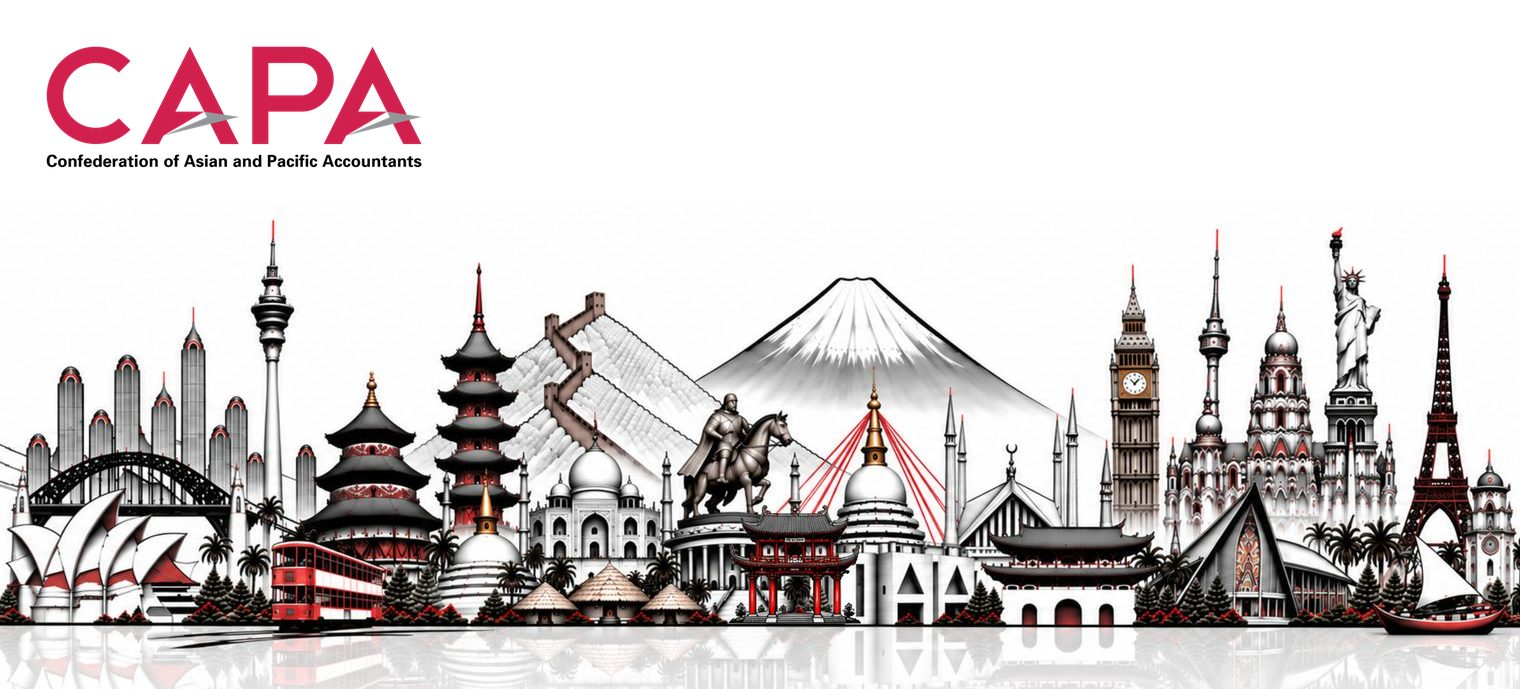
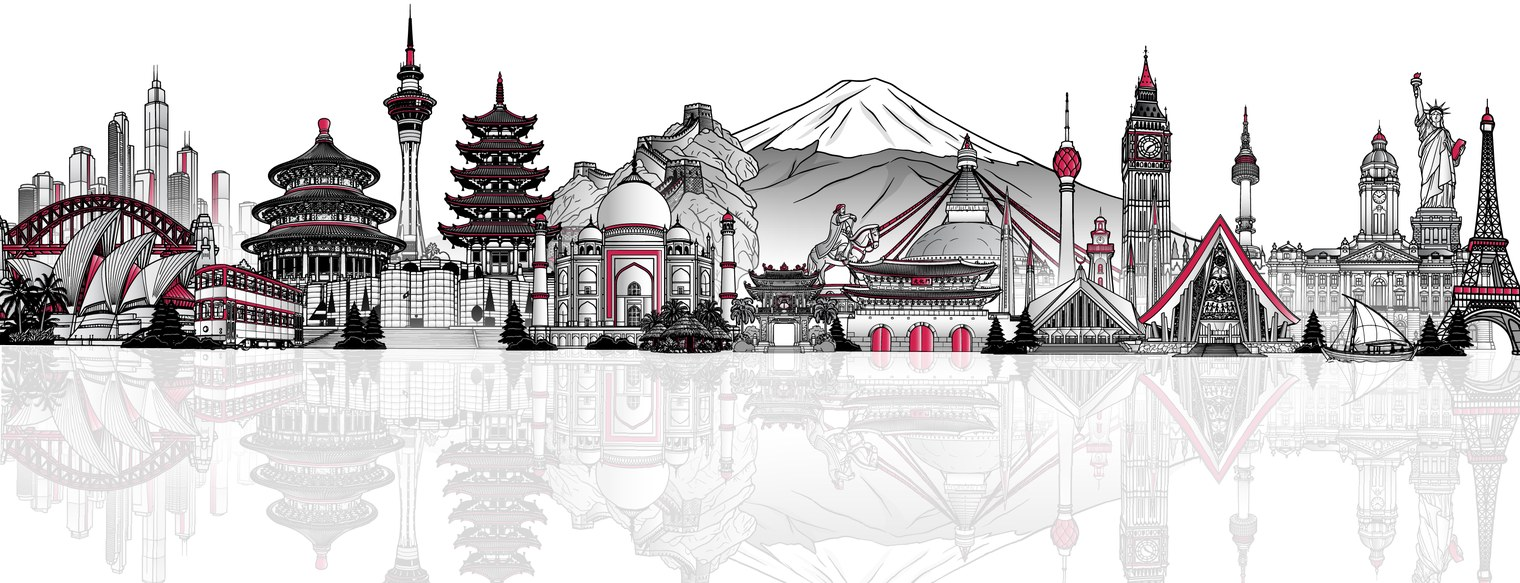
Daily brief and a new recap header
Brief runs every day at 07:47 Malaysia time and covers the past day
(manual runs still take a number of days). Drafts still need approval
before anything is sent. Header picture replaced with the skyline,
empty top trimmed.

Claude-Session: https://claude.ai/code/session_016G8uLg8zaXGriJKmv7ZxJR

diff --git a/pao-news-monitor/pao-news-monitor/README.md b/pao-news-monitor/pao-news-monitor/README.md
@@ -30,16 +30,16 @@ People sign in with their email and a password. Email is only used to confirm a 
 **Adding someone:** Admin tab → type their email, pick a role → **Give access**. Tell them to open the tracker and click **First time here**, choose a password, and click the confirmation email once. Anyone not on the Admin tab's list can't sign up, and has no access even if they somehow had an account.
 **Forgot password / used to sign in with email links:** the **Forgot password** tab emails a link to set one. Signed-in people can change it with the **Password** button.
 
-## Weekly brief (AI)
-Every **Monday at about 7:45am** (Malaysia time) a separate job reads the past week's items (everything except items tagged **Low** or **No relevance**, and hidden first-scan links), and:
+## Daily brief (AI)
+Every day at about **7:45am** (Malaysia time) a separate job reads the past day's items (everything except items tagged **Low** or **No relevance**, and hidden first-scan links), and:
 1. tags each item with themes (AI & digitalisation, Talent, Sustainability, Ethics & standards) and a one-line English summary. These also appear on the news cards.
 2. lays out a draft **recap** in CAPA's newsletter layout: **Highlight 1** and **Highlight 2** (the two most important stories, each with 2-3 sentences the AI writes from the article), **Other key news** (the other High stories; opportunities to comment and leadership changes count as High) and **Also worth knowing** (Medium stories). Every title links straight to its page - no numbered footnotes. The same story from two sources appears once. Earlier briefs that come back through the inbox are ignored.
 
-Open it with **Weekly Brief** in the top bar. Team members can **Edit** it; an admin **Approves** it. **Copy for email** copies it with formatting for an Outlook email; **Download Word** gives a .doc file. Nothing is sent automatically. To make one now: **Actions → Weekly brief → Run workflow**.
+Open it with **Weekly Brief** in the top bar (the tab keeps its name). Team members can **Edit** it; an admin **Approves** it. **Copy for email** copies it with formatting for an Outlook email; **Download Word** gives a .doc file. Nothing is sent automatically. To make one now: **Actions → Daily brief → Run workflow** (type a number of days to cover a longer period).
 
 **Changing the header picture:** the recap's header is one picture, `web/recap-header.jpg` - the CAPA logo and the skyline. To change it, make a new picture and save it over that file with the same name (in GitHub: open the file → the "…" menu → *Upload files*, or replace it in GitHub Desktop and push). It is shown whole, never cropped, on the Weekly Brief page, in Copy for email, in Download Word and in the email. The date and title are added below it automatically, so leave them out of the picture. Best size: about 1520 px wide (any height), JPEG, under 300 KB. To use a PNG instead, change the name `recap-header.jpg` in `web/brief.js` and `collector/send_brief.py`.
 
-**AI used (free):** add at least one key as a repository secret (GitHub → Settings → Secrets and variables → Actions). It tries them in this order and moves on when a model's free quota runs out: `GEMINI_API_KEY` (Google AI Studio, free tier), `GROQ_API_KEY` (console.groq.com, free plan), `CF_ACCOUNT_ID` + `CF_AI_TOKEN` (Cloudflare Workers AI, free daily allowance), and as a last resort `OPENROUTER_API_KEY` (openrouter.ai, free models). Only titles and short snippets of public news are sent - never your notes. Up to 280 items a week are AI-tagged (relevant, leadership, websites and emails first). If no model is available, the brief is saved as a plain list of the week's items instead. The brief shows which model wrote it.
+**AI used (free):** add at least one key as a repository secret (GitHub → Settings → Secrets and variables → Actions). It tries them in this order and moves on when a model's free quota runs out: `GEMINI_API_KEY` (Google AI Studio, free tier), `GROQ_API_KEY` (console.groq.com, free plan), `CF_ACCOUNT_ID` + `CF_AI_TOKEN` (Cloudflare Workers AI, free daily allowance), and as a last resort `OPENROUTER_API_KEY` (openrouter.ai, free models). Only titles and short snippets of public news are sent - never your notes. Up to 280 items a brief are AI-tagged (relevant, leadership, websites and emails first). If no model is available, the brief is saved as a plain list of the day's items instead. The brief shows which model wrote it.
 
 **Sending it:** admins keep a **Mailing list** on the Admin tab (add one by one, or paste many from Outlook/Excel; pause or remove anyone). On an approved brief, **Send to mailing list… → Send now** queues it; within about 10 minutes it's emailed from the monitor's Gmail as "CAPA News Monitor", with everyone in **BCC** and replies going to the admin who pressed Send. The brief then shows who sent it, when and to how many (or the error, if sending failed). Change of mind before it goes? **Cancel sending**. The staff-only "draft written by AI" banner is replaced by a short note that it was prepared with AI and reviewed by CAPA staff. Prefer to send it yourself? The same box has **send it from your own Outlook** (copies the brief and opens Outlook with the list in BCC).
 

diff --git a/CHANGES.md b/CHANGES.md
@@ -2,6 +2,10 @@
 
 Plain-language log of what changed and why, for anyone who isn't reading the code. One entry per fix or feature, newest first. See the User Guide for how to use each thing; see `_bmad-output/.../addendum.md` for technical detail.
 
+## 2026-11-05 — Daily brief and a new recap header
+- The brief now runs **every day** at 7:45am Malaysia time and covers the past day. Nothing is sent automatically: each draft still needs an admin to approve it. To make one now, run **Actions → Daily brief**.
+- New header picture (`web/recap-header.jpg`): the skyline, with its empty top trimmed. It has no CAPA logo, so add one if you want it.
+
 ## 2026-11-03 — Patch notes on the Admin tab
 - The **Admin** tab lists what changed on the tracker: the date and title of each change, newest first (the latest 10, with *Show all*).
 - The list comes from this file. After adding an entry here, run `python tests/make_patch_notes.py` to update it; a test fails if you forget.
